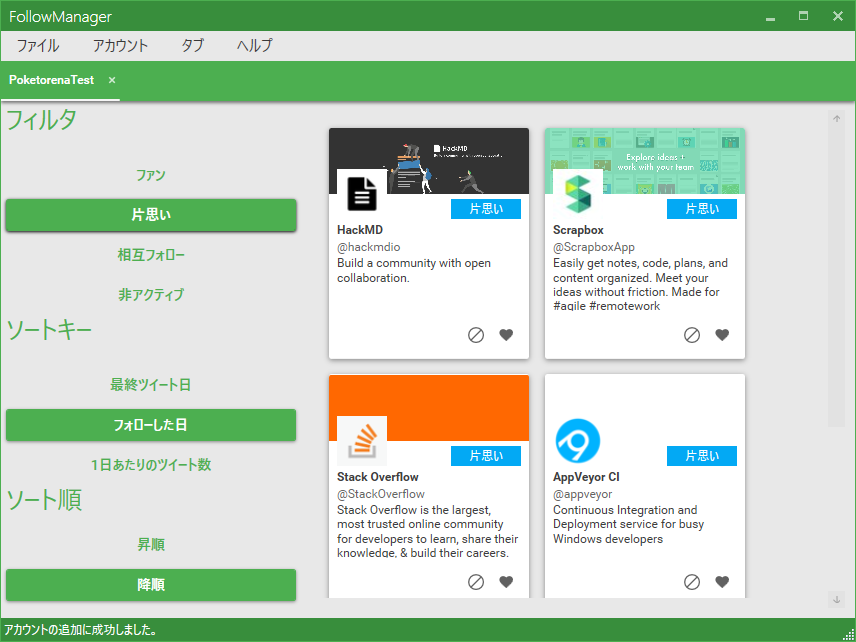
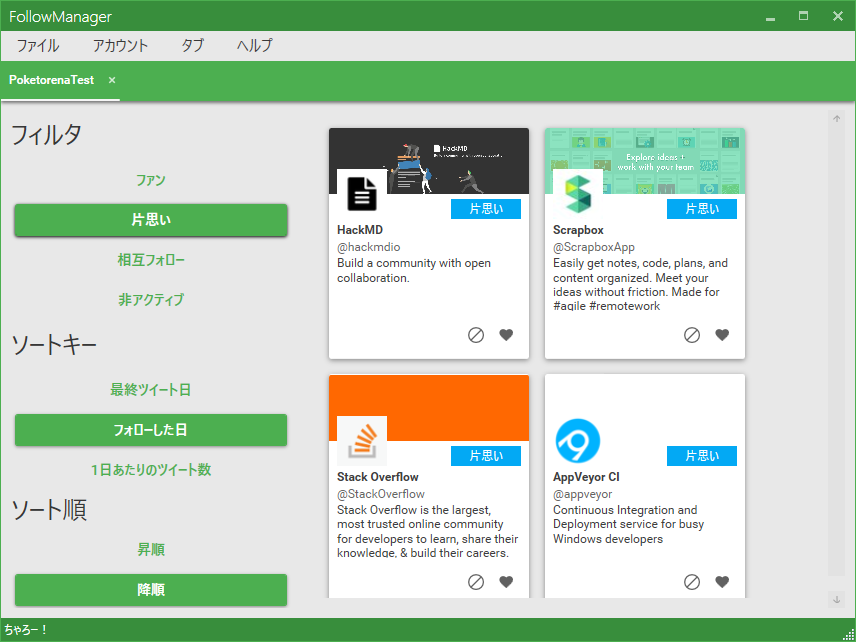
Fixed the display of the button
ボタンの角が途切れてしまっていたので修正した。

diff --git a/FollowManager/SidePanel/SidePanelView.xaml b/FollowManager/SidePanel/SidePanelView.xaml
@@ -50,7 +50,7 @@
             Text="フィルタ" />
         <Button
             Grid.Row="1"
-            Margin="0,2.5,0,2.5"
+            Margin="4"
             Command="{Binding ChangeFilterTypeCommand}"
             CommandParameter="{Binding TabData, ElementName=self, UpdateSourceTrigger=PropertyChanged, Mode=OneWay, Converter={StaticResource TabDataToFilterRequestConverter}, ConverterParameter=Fan}"
             Content="ファン">
@@ -65,7 +65,7 @@
         </Button>
         <Button
             Grid.Row="2"
-            Margin="0,2.5,0,2.5"
+            Margin="4"
             Command="{Binding ChangeFilterTypeCommand}"
             CommandParameter="{Binding TabData, ElementName=self, UpdateSourceTrigger=PropertyChanged, Mode=OneWay, Converter={StaticResource TabDataToFilterRequestConverter}, ConverterParameter=OneWay}"
             Content="片思い">
@@ -80,7 +80,7 @@
         </Button>
         <Button
             Grid.Row="3"
-            Margin="0,2.5,0,2.5"
+            Margin="4"
             Command="{Binding ChangeFilterTypeCommand}"
             CommandParameter="{Binding TabData, ElementName=self, UpdateSourceTrigger=PropertyChanged, Mode=OneWay, Converter={StaticResource TabDataToFilterRequestConverter}, ConverterParameter=Mutual}"
             Content="相互フォロー">
@@ -95,7 +95,7 @@
         </Button>
         <Button
             Grid.Row="4"
-            Margin="0,2.5,0,2.5"
+            Margin="4"
             Command="{Binding ChangeFilterTypeCommand}"
             CommandParameter="{Binding TabData, ElementName=self, UpdateSourceTrigger=PropertyChanged, Mode=OneWay, Converter={StaticResource TabDataToFilterRequestConverter}, ConverterParameter=Inactive}"
             Content="非アクティブ">
@@ -117,7 +117,7 @@
             Text="ソートキー" />
         <Button
             Grid.Row="6"
-            Margin="0,2.5,0,2.5"
+            Margin="4"
             Command="{Binding ChangeSortKeyTypeCommand}"
             CommandParameter="{Binding TabData, ElementName=self, UpdateSourceTrigger=PropertyChanged, Mode=OneWay, Converter={StaticResource TabDataToSortKeyRequestConverter}, ConverterParameter=LastTweetDay}"
             Content="最終ツイート日">
@@ -132,7 +132,7 @@
         </Button>
         <Button
             Grid.Row="7"
-            Margin="0,2.5,0,2.5"
+            Margin="4"
             Command="{Binding ChangeSortKeyTypeCommand}"
             CommandParameter="{Binding TabData, ElementName=self, UpdateSourceTrigger=PropertyChanged, Mode=OneWay, Converter={StaticResource TabDataToSortKeyRequestConverter}, ConverterParameter=FollowDay}"
             Content="フォローした日">
@@ -147,7 +147,7 @@
         </Button>
         <Button
             Grid.Row="8"
-            Margin="0,2.5,0,2.5"
+            Margin="4"
             Command="{Binding ChangeSortKeyTypeCommand}"
             CommandParameter="{Binding TabData, ElementName=self, UpdateSourceTrigger=PropertyChanged, Mode=OneWay, Converter={StaticResource TabDataToSortKeyRequestConverter}, ConverterParameter=TweetsPerDay}"
             Content="1日あたりのツイート数">
@@ -169,7 +169,7 @@
             Text="ソート順" />
         <Button
             Grid.Row="10"
-            Margin="0,2.5,0,2.5"
+            Margin="4"
             Command="{Binding ChangeSortOrderTypeCommand}"
             CommandParameter="{Binding TabData, ElementName=self, UpdateSourceTrigger=PropertyChanged, Mode=OneWay, Converter={StaticResource TabDataToSortOrderRequestConverter}, ConverterParameter=Ascending}"
             Content="昇順">
@@ -184,7 +184,7 @@
         </Button>
         <Button
             Grid.Row="11"
-            Margin="0,2.5,0,2.5"
+            Margin="4"
             Command="{Binding ChangeSortOrderTypeCommand}"
             CommandParameter="{Binding TabData, ElementName=self, UpdateSourceTrigger=PropertyChanged, Mode=OneWay, Converter={StaticResource TabDataToSortOrderRequestConverter}, ConverterParameter=Descending}"
             Content="降順">
